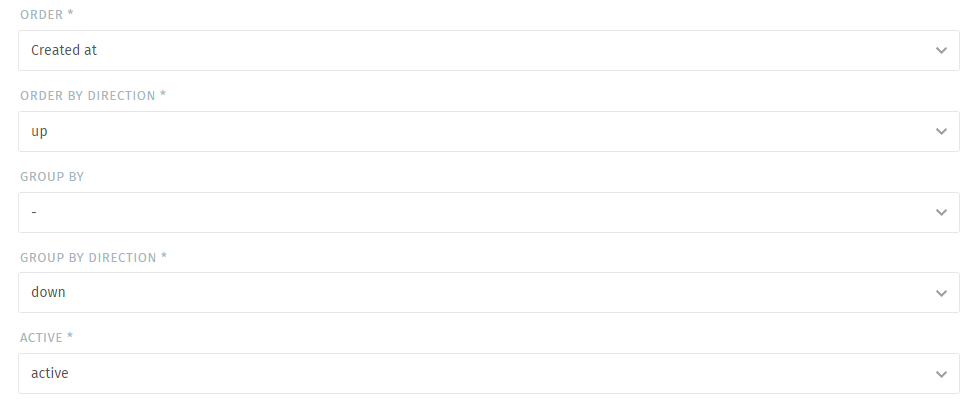
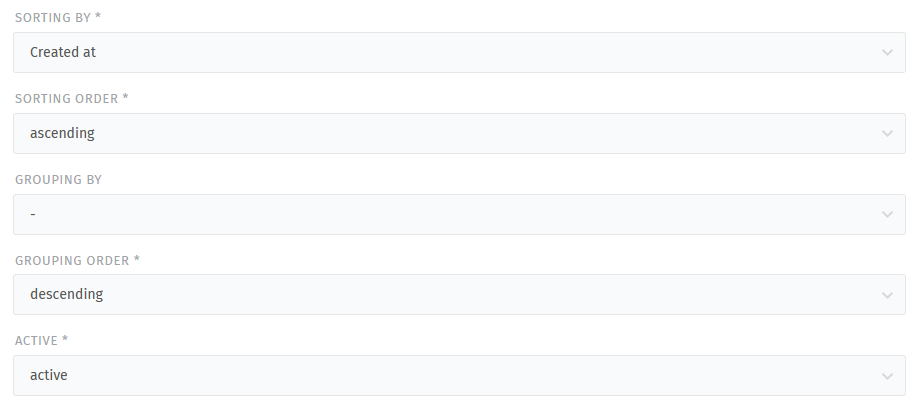
Maintenance: Update Sorting and grouping wording

diff --git a/manage/overviews.rst b/manage/overviews.rst
@@ -108,15 +108,26 @@ Attributes
       Please note that overview column and sort settings are global settings
       which affect all users seeing those overviews.
 
-Ordering, grouping and active
+Sorting, Grouping and Active
    .. figure:: /images/manage/overviews/ordering-and-grouping-of-overviews.png
 
-   - order: In which order should the tickets be displayed?
-     (Sorted by the attributes)
-   - direction: The direction of the order
-   - group by: Should the tickets be displayed again grouped by a specific
-     attribute within the list?
-   - active: Set them active or inactive
+   :Sorting by:
+      In which order should the tickets be displayed? (Sorted by the attributes)
+
+   :Sorting order:
+      The direction of the sorting.
+
+   :Grouping by:
+      Should the tickets be displayed again grouped by a specific attribute
+      within the list?
+
+   :Grouping order:
+      The direction of the grouping.
+
+   :Active:
+      Should the overview be active or not?
+      Inactive overviews are not available to your users but are an alternative
+      for you to deleting.
 
    .. note::
 
